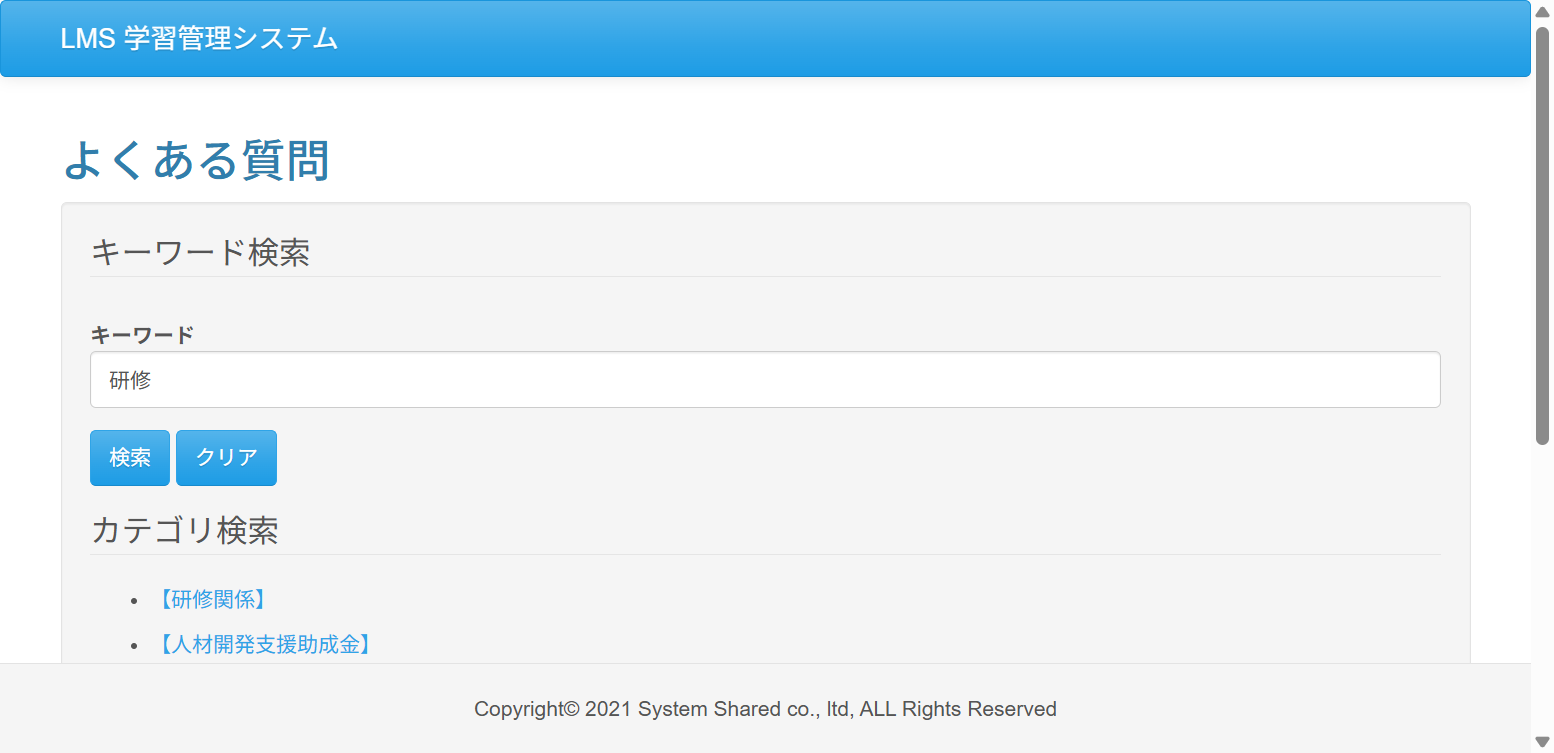
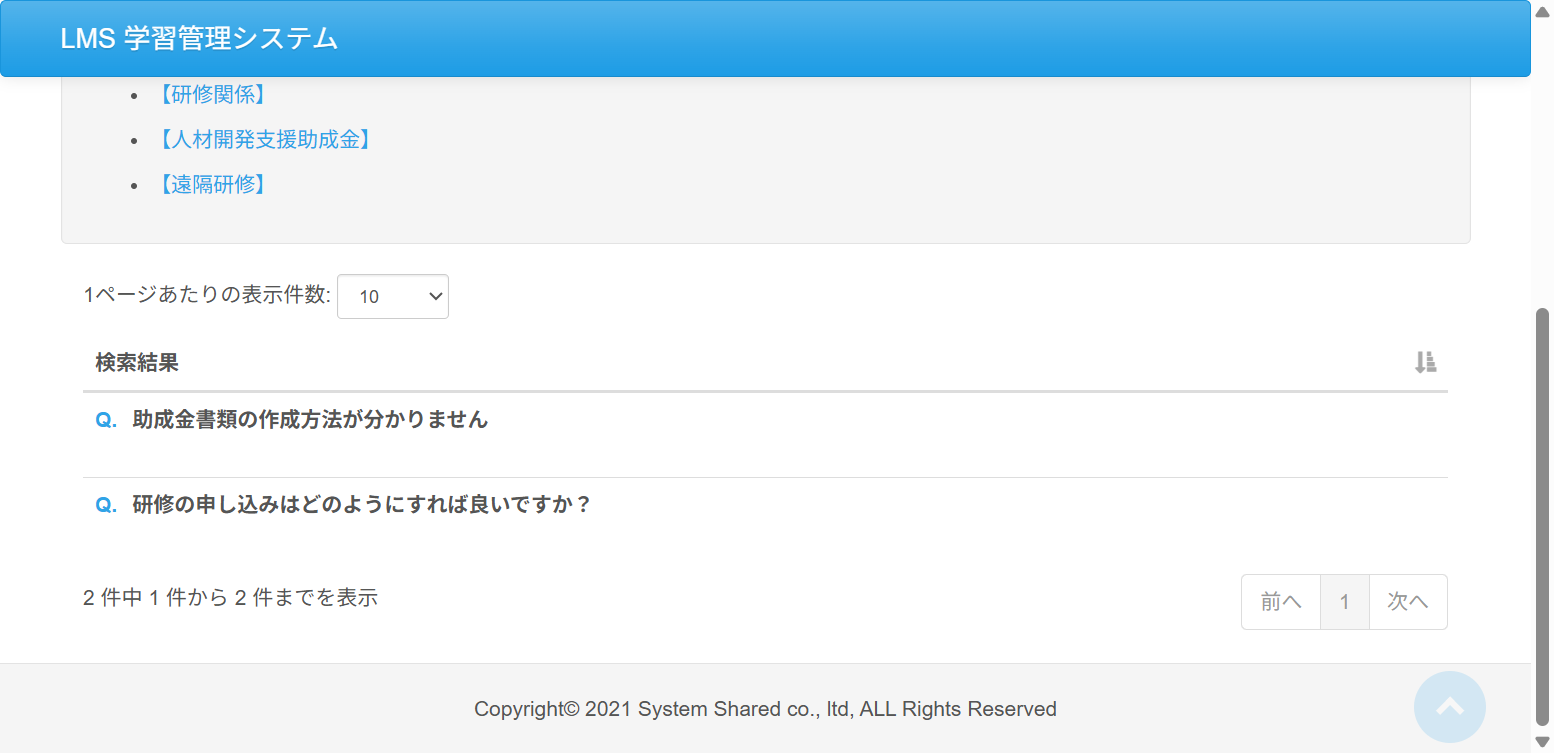
Case05.Case06　エビデンス作成

diff --git a/test_code_creation_name/src/test/java/jp/co/sss/lms/ct/f02_faq/Case05.java b/test_code_creation_name/src/test/java/jp/co/sss/lms/ct/f02_faq/Case05.java
@@ -3,6 +3,8 @@ package jp.co.sss.lms.ct.f02_faq;
 import static jp.co.sss.lms.ct.util.WebDriverUtils.*;
 import static org.junit.jupiter.api.Assertions.*;
 
+import java.util.List;
+
 import org.junit.jupiter.api.AfterAll;
 import org.junit.jupiter.api.BeforeAll;
 import org.junit.jupiter.api.DisplayName;
@@ -38,9 +40,7 @@ public class Case05 {
 	@Order(1)
 	@DisplayName("テスト01 トップページURLでアクセス")
 	void test01() {
-
-		String url = "http://localhost:" + 8080 + "/lms";
-		webDriver.get(url);
+		goTo("http://localhost:" + 8080 + "/lms");
 		assertEquals("ログイン | LMS", webDriver.getTitle());
 		getEvidence(new Object() {
 		});
@@ -51,8 +51,7 @@ public class Case05 {
 	@Order(2)
 	@DisplayName("テスト02 初回ログイン済みの受講生ユーザーでログイン")
 	void test02() {
-		String url = "http://localhost:" + 8080 + "/lms";
-		webDriver.get(url);
+
 		// 存在するユーザーのログインIDを入力
 		WebElement loginIdElement = webDriver.findElement(By.id("loginId"));
 		loginIdElement.clear();
@@ -80,9 +79,7 @@ public class Case05 {
 	@Order(3)
 	@DisplayName("テスト03 上部メニューの「ヘルプ」リンクからヘルプ画面に遷移")
 	void test03() {
-		String url = "http://localhost:8080/lms/course/detail";
-		webDriver.get(url);
-
+		//機能リンクをクリック
 		visibilityTimeout(By.linkText("機能"), 5);
 		webDriver.findElement(By.linkText("機能")).click();
 
@@ -101,11 +98,13 @@ public class Case05 {
 	@Order(4)
 	@DisplayName("テスト04 「よくある質問」リンクからよくある質問画面を別タブに開く")
 	void test04() {
+		//「よくある質問」リンクをクリック
 		webDriver.findElement(By.linkText("よくある質問")).click();
-		//visibilityTimeout(By.cssSelector("form-horizontal"), 5);
+		//別のタブへ移動
 		Object[] windowHandles = webDriver.getWindowHandles().toArray();
 		webDriver.switchTo().window((String) windowHandles[1]);
-
+		// タイトル 一致確認
+		visibilityTimeout(By.tagName("h2"), 5);
 		assertEquals("よくある質問 | LMS", webDriver.getTitle());
 		getEvidence(new Object() {
 		}, "Question");
@@ -115,12 +114,27 @@ public class Case05 {
 	@Order(5)
 	@DisplayName("テスト05 キーワード検索で該当キーワードを含む検索結果だけ表示")
 	void test05() {
-		// TODO ここに追加
+		//formを取得
 		WebElement writeElement = webDriver.findElement(By.id("form"));
 		writeElement.clear();
+		//取得したformに"研修"と入力
 		writeElement.sendKeys("研修");
-		webDriver.findElement(By.className("btn-primary")).click();
+		//入力したしている文字が"研修"と一致しているかの確認
 		assertEquals("研修", writeElement.getAttribute("value"));
+		//提出ボタンをクリック
+		webDriver.findElement(By.cssSelector("input[type='submit']")).click();
+		visibilityTimeout(By.cssSelector("tbody tr td dl"), 5);
+		//検索結果のリストを取得
+		List<WebElement> searchList = webDriver.findElements(By.cssSelector("tbody tr td dl"));
+		//検索結果が見えるようスクロール
+		scrollTo("1000");
+
+		for (WebElement element : searchList) {
+			//画面上のすべての要素から値を取得
+			String fullText = element.getAttribute("textContent");
+			//研修の文字が含まれているかの確認
+			assertTrue(fullText.contains("研修"));
+		}
 
 		getEvidence(new Object() {
 		}, "keywordSearch");
@@ -130,14 +144,19 @@ public class Case05 {
 	@Order(6)
 	@DisplayName("テスト06 「クリア」ボタン押下で入力したキーワードを消去")
 	void test06() {
+		//formを取得
 		WebElement writeElement = webDriver.findElement(By.id("form"));
 		writeElement.clear();
+		//研修と入力を行う
 		writeElement.sendKeys("研修");
 		getEvidence(new Object() {
 		}, "keyword");
+		//クリアボタンの要素を取得
 		WebElement clearElement = webDriver.findElement(By.cssSelector("input[type='button']"));
 		clearElement.click();
+		//空文字になっているか確認
 		assertEquals("", writeElement.getAttribute("value"));
+
 		getEvidence(new Object() {
 		}, "clear");
 	}
